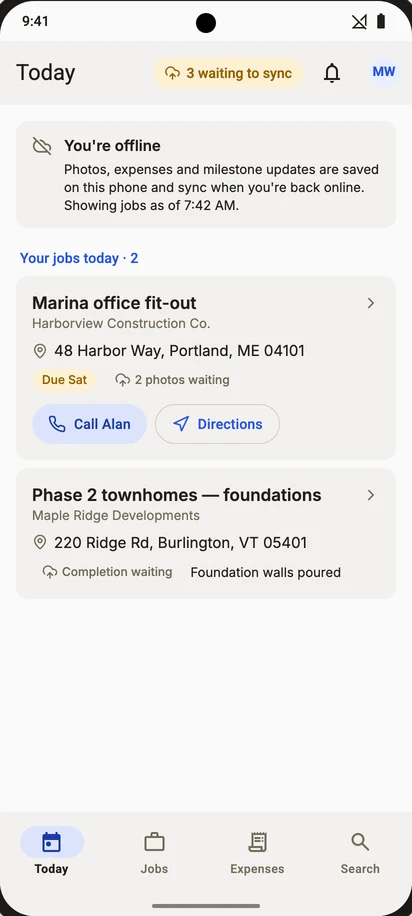
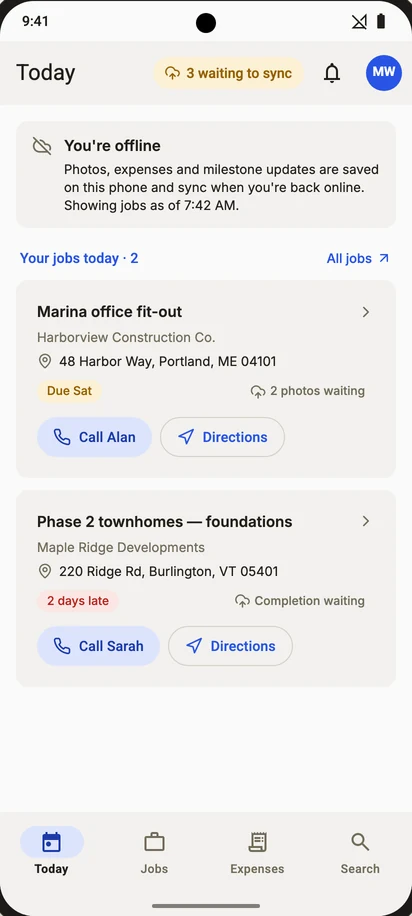
Phase 5: Today like the showcase-native home; US-MOB-23 Search story and designs

diff --git a/docs/design/screens.md b/docs/design/screens.md
@@ -2544,7 +2544,7 @@ Shows: "Sign in to Spine" · "Use the email your office invited you with." · "s
 
 Links to: `MobSyncQueue`, `MobJobDetail`, `MobPhotoCapture`, `MobExpenseNew`, `MobJobsList`, `MobExpensesList`, `MobProfile`
 
-Shows: "All synced" · "2" · "Today" · "Good morning, Marcus" · "Riverstone Builders · Thursday 8 October" · "60%" · "Milestones this month" · "3 of 5 done" · "This week" · "This month" · "Due this week" · "milestones · next Sat" · "Overdue" · "1" · "milestone · 2 days late" · "Photos" · "14" · "this week · all sent" · "My expenses" · "$234.00" · "1 waiting for approval" · "Add photos" · "Log expense" · "NEXT MEETING" · "Progress review — Phase 2 townhomes" · "Sun 11 Oct, 9:00 AM · 220 Ridge Rd" · "Jobs" · "Expenses"
+Shows: "All synced" · "2" · "Today" · "Good morning, Marcus" · "Riverstone Builders · Thursday 8 October" · "60%" · "Milestones this month" · "3 of 5 done" · "This week" · "This month" · "This year" · "Due this month" · "3" · "milestones · next Sat" · "Overdue" · "1" · "milestone · 2 days late" · "Photos" · "38" · "this month · all sent" · "My expenses" · "$234.00" · "1 waiting for approval" · "QUICK ACTIONS" · "Add photo" · "Log expense" · "Scan receipt" · "Directions" · "YOUR JOBS TODAY · 2" · "All jobs" · "Marina office fit-out" · "Harborview Construction Co." · "48 Harbor Way, Portland, ME 04101" · "Due Sat" · "Next: Mobilisation & site setup" · "Call Alan Reyes" · "Phase 2 townhomes — foundations" · "Maple Ridge Developments" · "220 Ridge Rd, Burlington, VT 05401" · "2 days late" · "Next: Foundation walls poured" · "Call Sarah Kim" · "Jobs" · "Expenses"
 
 ### MobHomeAndroid — Today — Spine Android
 **Priority:** P1 · **Phase:** 5 · **Stories:** US-MOB-03, US-MOB-19, US-MOB-20 · **Source:** Claude Design
@@ -2553,7 +2553,7 @@ Shows: "All synced" · "2" · "Today" · "Good morning, Marcus" · "Riverstone B
 
 Links to: `MobSyncQueueAndroid`, `MobJobDetailAndroid`, `MobPhotoCaptureAndroid`, `MobJobsListAndroid`, `MobExpensesListAndroid`, `MobProfileAndroid`
 
-Shows: "All synced" · "2" · "Today" · "Good morning, Marcus" · "Riverstone Builders · Thursday 8 October" · "60%" · "Milestones this month" · "3 of 5 done" · "check This week" · "This month" · "Due this week" · "milestones · next Sat" · "Overdue" · "1" · "milestone · 2 days late" · "Photos" · "14" · "this week · all sent" · "Add photos" · "Log expense" · "Next meeting" · "Progress review — Phase 2 townhomes" · "Sun 11 Oct, 9:00 AM · 220 Ridge Rd" · "Jobs" · "Expenses" · "Search"
+Shows: "All synced" · "2" · "Today" · "Good morning, Marcus" · "Riverstone Builders · Thursday 8 October" · "60%" · "Milestones this month" · "3 of 5 done" · "This week" · "check This month" · "This year" · "Due this month" · "3" · "milestones · next Sat" · "Overdue" · "1" · "milestone · 2 days late" · "Photos" · "38" · "this month · all sent" · "My expenses" · "$234.00" · "1 waiting for approval" · "Quick actions" · "Add photo" · "Log expense" · "Scan receipt" · "Directions" · "Your jobs today · 2" · "All jobs" · "Marina office fit-out" · "Harborview Construction Co." · "48 Harbor Way, Portland, ME 04101" · "Due Sat" · "Next: Mobilisation & site setup" · "Call Alan" · "Phase 2 townhomes — foundations" · "Maple Ridge Developments" · "220 Ridge Rd, Burlington, VT 05401" · "2 days late" · "Next: Foundation walls poured" · "Call Sarah" · "Jobs" · "Expenses" · "Search"
 
 ### MobHomeOffline — Today, offline
 **Priority:** P1 · **Phase:** 5 · **Stories:** US-MOB-07 · **Source:** Claude Design
@@ -2562,7 +2562,7 @@ Shows: "All synced" · "2" · "Today" · "Good morning, Marcus" · "Riverstone B
 
 Links to: `MobSyncQueue`, `MobJobDetail`, `MobPhotoCapture`, `MobExpenseNew`, `MobHome`, `MobJobsList`, `MobExpensesList`, `MobProfile`
 
-Shows: "Today" · "3 waiting to sync" · "You're offline" · "Photos, expenses and milestone updates are saved on this phone and sync when you're back online. Showing jobs as of 7:42 AM." · "YOUR JOBS TODAY · 2" · "Marina office fit-out" · "Harborview Construction Co." · "48 Harbor Way, Portland, ME 04101" · "Due Sat" · "2 photos waiting" · "Call Alan Reyes" · "Directions" · "Phase 2 townhomes — foundations" · "Maple Ridge Developments" · "220 Ridge Rd, Burlington, VT 05401" · "Completion waiting" · "Foundation walls poured" · "Jobs" · "Expenses"
+Shows: "3 waiting to sync" · "You're offline" · "Photos, expenses and milestone updates are saved on this phone and sync when you're back online. Showing jobs as of 7:42 AM." · "YOUR JOBS TODAY · 2" · "All jobs" · "Marina office fit-out" · "Harborview Construction Co." · "48 Harbor Way, Portland, ME 04101" · "Due Sat" · "2 photos waiting" · "Call Alan Reyes" · "Directions" · "Phase 2 townhomes — foundations" · "Maple Ridge Developments" · "220 Ridge Rd, Burlington, VT 05401" · "2 days late" · "Completion waiting" · "Call Sarah Kim" · "Today" · "Jobs" · "Expenses"
 
 ### MobHomeOfflineAndroid — Today, offline — Spine Android
 **Priority:** P1 · **Phase:** 5 · **Stories:** US-MOB-07 · **Source:** Claude Design
@@ -2571,7 +2571,7 @@ Shows: "Today" · "3 waiting to sync" · "You're offline" · "Photos, expenses a
 
 Links to: `MobSyncQueueAndroid`, `MobJobDetailAndroid`, `MobPhotoCaptureAndroid`, `MobHomeAndroid`, `MobJobsListAndroid`, `MobExpensesListAndroid`, `MobProfileAndroid`
 
-Shows: "Today" · "3 waiting to sync" · "You're offline" · "Photos, expenses and milestone updates are saved on this phone and sync when you're back online. Showing jobs as of 7:42 AM." · "Your jobs today · 2" · "Marina office fit-out" · "Harborview Construction Co." · "48 Harbor Way, Portland, ME 04101" · "Due Sat" · "2 photos waiting" · "Call Alan" · "Directions" · "Phase 2 townhomes — foundations" · "Maple Ridge Developments" · "220 Ridge Rd, Burlington, VT 05401" · "Completion waiting" · "Foundation walls poured" · "Jobs" · "Expenses" · "Search"
+Shows: "Today" · "3 waiting to sync" · "You're offline" · "Photos, expenses and milestone updates are saved on this phone and sync when you're back online. Showing jobs as of 7:42 AM." · "Your jobs today · 2" · "All jobs" · "Marina office fit-out" · "Harborview Construction Co." · "48 Harbor Way, Portland, ME 04101" · "Due Sat" · "2 photos waiting" · "Call Alan" · "Directions" · "Phase 2 townhomes — foundations" · "Maple Ridge Developments" · "220 Ridge Rd, Burlington, VT 05401" · "2 days late" · "Completion waiting" · "Call Sarah" · "Jobs" · "Expenses" · "Search"
 
 ### MobJobsListAndroid — Jobs — Spine Android
 **Priority:** P1 · **Phase:** 5 · **Stories:** US-MOB-04 · **Source:** Claude Design
@@ -2958,7 +2958,7 @@ Shows: "Fix expense" · "Didn't send: the receipt photo is over 10 MB." · "Cate
 
 Links to: `MobSyncQueue`, `MobJobDetail`, `MobPhotoCapture`, `MobExpenseNew`, `MobHome`, `MobJobsList`, `MobExpensesList`, `MobProfile`
 
-Shows: "All synced" · "2" · "Today" · "Good morning, Marcus" · "Riverstone Builders · Thursday 8 October" · "60%" · "Milestones this month" · "3 of 5 done" · "This week" · "This month" · "Due this week" · "milestones · next Sat" · "Overdue" · "1" · "milestone · 2 days late" · "Photos" · "14" · "this week · all sent" · "Add photos" · "Log expense" · "NEXT MEETING" · "Progress review — Phase 2 townhomes" · "Sun 11 Oct, 9:00 AM · 220 Ridge Rd" · "Jobs" · "Expenses"
+Shows: "All synced" · "2" · "Today" · "Good morning, Marcus" · "Riverstone Builders · Thursday 8 October" · "60%" · "Milestones this month" · "3 of 5 done" · "This week" · "This month" · "This year" · "Due this month" · "3" · "milestones · next Sat" · "Overdue" · "1" · "milestone · 2 days late" · "Photos" · "38" · "this month · all sent" · "My expenses" · "$234.00" · "1 waiting for approval" · "QUICK ACTIONS" · "Add photo" · "Log expense" · "Scan receipt" · "Directions" · "YOUR JOBS TODAY · 2" · "All jobs" · "Marina office fit-out" · "Harborview Construction Co." · "48 Harbor Way, Portland, ME 04101" · "Due Sat" · "Next: Mobilisation & site setup" · "Call Alan Reyes" · "Phase 2 townhomes — foundations" · "Maple Ridge Developments" · "220 Ridge Rd, Burlington, VT 05401" · "2 days late" · "Next: Foundation walls poured" · "Call Sarah Kim" · "Jobs" · "Expenses"
 
 ### MobJobDetailDark — Job detail (iOS), dark mode
 **Priority:** P1 · **Phase:** 5 · **Stories:** US-MOB-19 · **Source:** Claude Design
@@ -2976,7 +2976,7 @@ Shows: "Active" · "Marina office fit-out" · "JOB-001 · Harborview Constructio
 
 Links to: `MobSyncQueueAndroid`, `MobJobDetailAndroid`, `MobPhotoCaptureAndroid`, `MobHomeAndroid`, `MobJobsListAndroid`, `MobExpensesListAndroid`, `MobProfileAndroid`
 
-Shows: "All synced" · "2" · "Today" · "Good morning, Marcus" · "Riverstone Builders · Thursday 8 October" · "60%" · "Milestones this month" · "3 of 5 done" · "check This week" · "This month" · "Due this week" · "milestones · next Sat" · "Overdue" · "1" · "milestone · 2 days late" · "Photos" · "14" · "this week · all sent" · "Add photos" · "Log expense" · "Next meeting" · "Progress review — Phase 2 townhomes" · "Sun 11 Oct, 9:00 AM · 220 Ridge Rd" · "Jobs" · "Expenses" · "Search"
+Shows: "All synced" · "2" · "Today" · "Good morning, Marcus" · "Riverstone Builders · Thursday 8 October" · "60%" · "Milestones this month" · "3 of 5 done" · "This week" · "check This month" · "This year" · "Due this month" · "3" · "milestones · next Sat" · "Overdue" · "1" · "milestone · 2 days late" · "Photos" · "38" · "this month · all sent" · "My expenses" · "$234.00" · "1 waiting for approval" · "Quick actions" · "Add photo" · "Log expense" · "Scan receipt" · "Directions" · "Your jobs today · 2" · "All jobs" · "Marina office fit-out" · "Harborview Construction Co." · "48 Harbor Way, Portland, ME 04101" · "Due Sat" · "Next: Mobilisation & site setup" · "Call Alan" · "Phase 2 townhomes — foundations" · "Maple Ridge Developments" · "220 Ridge Rd, Burlington, VT 05401" · "2 days late" · "Next: Foundation walls poured" · "Call Sarah" · "Jobs" · "Expenses" · "Search"
 
 ### MobJobDetailAndroidDark — Job detail (Android), dark mode
 **Priority:** P1 · **Phase:** 5 · **Stories:** US-MOB-20 · **Source:** Claude Design
@@ -2994,7 +2994,7 @@ Shows: "Marina office fit-out" · "JOB-001 · Harborview Construction Co." · "A
 
 Links to: `MobJobDetail`, `MobNotifications`, `MobSyncQueue`, `MobProfile`, `MobSearch`
 
-Shows: "Today" · "All synced" · "2" · "YOUR JOBS TODAY · 2" · "Marina office fit-out" · "Harborview Construction Co." · "48 Harbor Way, Portland, ME 04101" · "Due Sat" · "Next: Mobilisation & site setup" · "Call Alan Reyes" · "Directions" · "Phase 2 townhomes — foundations" · "Maple Ridge Developments" · "220 Ridge Rd, Burlington, VT 05401" · "2 days late" · "Next: Foundation walls poured" · "Call Sarah Kim" · "Jobs" · "Expenses"
+Shows: "All synced" · "Today" · "2" · "QUICK ACTIONS" · "Add photo" · "Log expense" · "Scan receipt" · "Directions" · "YOUR JOBS TODAY · 2" · "All jobs" · "Marina office fit-out" · "Harborview Construction Co." · "48 Harbor Way, Portland, ME 04101" · "Due Sat" · "Next: Mobilisation & site setup" · "Call Alan Reyes" · "Phase 2 townhomes — foundations" · "Maple Ridge Developments" · "220 Ridge Rd, Burlington, VT 05401" · "2 days late" · "Next: Foundation walls poured" · "Call Sarah Kim" · "NEXT MEETING" · "Progress review — Phase 2 townhomes" · "Sun 11 Oct, 9:00 AM · 220 Ridge Rd" · "Jobs" · "Expenses"
 
 ### MobHomeJobsAndroid — Today, scrolled to the jobs — Spine Android
 **Priority:** P1 · **Phase:** 5 · **Stories:** US-MOB-03 · **Source:** Claude Design
@@ -3003,7 +3003,7 @@ Shows: "Today" · "All synced" · "2" · "YOUR JOBS TODAY · 2" · "Marina offic
 
 Links to: `MobJobDetailAndroid`, `MobNotificationsAndroid`, `MobSyncQueueAndroid`, `MobProfileAndroid`, `MobSearchAndroid`
 
-Shows: "Today" · "All synced" · "2" · "Your jobs today · 2" · "Marina office fit-out" · "Harborview Construction Co." · "48 Harbor Way, Portland, ME 04101" · "Due Sat" · "Next: Mobilisation & site setup" · "Call Alan" · "Directions" · "Phase 2 townhomes — foundations" · "Maple Ridge Developments" · "220 Ridge Rd, Burlington, VT 05401" · "2 days late" · "Next: Foundation walls poured" · "Call Sarah" · "Jobs" · "Expenses" · "Search"
+Shows: "Today" · "All synced" · "2" · "Quick actions" · "Add photo" · "Log expense" · "Scan receipt" · "Directions" · "Your jobs today · 2" · "All jobs" · "Marina office fit-out" · "Harborview Construction Co." · "48 Harbor Way, Portland, ME 04101" · "Due Sat" · "Next: Mobilisation & site setup" · "Call Alan" · "Phase 2 townhomes — foundations" · "Maple Ridge Developments" · "220 Ridge Rd, Burlington, VT 05401" · "2 days late" · "Next: Foundation walls poured" · "Call Sarah" · "Next meeting" · "Progress review — Phase 2 townhomes" · "Sun 11 Oct, 9:00 AM · 220 Ridge Rd" · "Jobs" · "Expenses" · "Search"
 
 ### MobExpenseLabour — New expense, headcount × day rate
 **Priority:** P1 · **Phase:** 5 · **Stories:** US-MOB-13, US-PUR-23 · **Source:** Claude Design
@@ -3024,7 +3024,7 @@ Links to: `MobExpensesListAndroid`
 Shows: "New expense" · "Submit" · "Amount" · "check Headcount × day rate" · "Phase 2 townhomes — foundations" · "Job" · "Trades" · "Mason" · "Trade" · "4" · "Workers" · "220.00" · "Day rate" · "$" · "4 × $220.00" · "$880.00" · "Steel fixer" · "2 × $260.00" · "$520.00" · "Add trade" · "Total for the day" · "$1,400.00"
 
 ### MobSearch — Search
-**Priority:** P1 · **Phase:** 5 · **Stories:** US-MOB-04 · **Source:** Claude Design
+**Priority:** P1 · **Phase:** 5 · **Stories:** US-MOB-23 · **Source:** Claude Design
 
 ![MobSearch](screens/MobSearch.webp)
 
@@ -3033,7 +3033,7 @@ Links to: `MobSearchResults`
 Shows: "Search" · "Recent searches" · "Edit" · "ridge rd" · "Find a job by name, customer or address, or one of your expenses by category or description." · "Search jobs and expenses"
 
 ### MobSearchResults — Search results
-**Priority:** P1 · **Phase:** 5 · **Stories:** US-MOB-04 · **Source:** Claude Design
+**Priority:** P1 · **Phase:** 5 · **Stories:** US-MOB-23 · **Source:** Claude Design
 
 ![MobSearchResults](screens/MobSearchResults.webp)
 
@@ -3042,7 +3042,7 @@ Links to: `MobJobDetail`, `MobExpensesList`
 Shows: "Search" · "JOBS · 1" · "office fit-out" · "Marina" · "Harborview Construction Co. · 48 Harbor Way, Portland" · "YOUR EXPENSES · 2" · "Fuel & Vehicle" · "Today · office fit-out" · "$64.20" · "Waiting" · "Site Meals" · "Sun 27 Sep · office fit-out" · "$42.00" · "Approved"
 
 ### MobSearchAndroid — Search — Spine Android
-**Priority:** P1 · **Phase:** 5 · **Stories:** US-MOB-04 · **Source:** Claude Design
+**Priority:** P1 · **Phase:** 5 · **Stories:** US-MOB-23 · **Source:** Claude Design
 
 ![MobSearchAndroid](screens/MobSearchAndroid.webp)
 
@@ -3051,13 +3051,31 @@ Links to: `MobSearchResultsAndroid`
 Shows: "Search jobs and expenses" · "Recent searches" · "Clear" · "ridge rd" · "Find a job by name, customer or address, or one of your expenses by category or description." · "Today" · "Jobs" · "Expenses" · "Search"
 
 ### MobSearchResultsAndroid — Search results — Spine Android
-**Priority:** P1 · **Phase:** 5 · **Stories:** US-MOB-04 · **Source:** Claude Design
+**Priority:** P1 · **Phase:** 5 · **Stories:** US-MOB-23 · **Source:** Claude Design
 
 ![MobSearchResultsAndroid](screens/MobSearchResultsAndroid.webp)
 
 Links to: `MobJobDetailAndroid`, `MobExpensesListAndroid`
 
 Shows: "Jobs · 1" · "office fit-out" · "Marina" · "Harborview Construction Co. · 48 Harbor Way, Portland" · "Your expenses · 2" · "Fuel & Vehicle" · "Today · waiting to sync" · "$64.20" · "Site Meals" · "Sun 27 Sep ·" · "Approved" · "$42.00"
+
+### MobSearchEmpty — Search, no results
+**Priority:** P2 · **Phase:** 5 · **Stories:** US-MOB-23 · **Source:** Claude Design
+
+![MobSearchEmpty](screens/MobSearchEmpty.webp)
+
+Links to: `MobSearch`
+
+Shows: "Search" · "No results for “quarry”" · "Search covers the jobs you're on and your own expenses. Try a customer name, a street or an expense category."
+
+### MobSearchEmptyAndroid — Search, no results — Spine Android
+**Priority:** P2 · **Phase:** 5 · **Stories:** US-MOB-23 · **Source:** Claude Design
+
+![MobSearchEmptyAndroid](screens/MobSearchEmptyAndroid.webp)
+
+Links to: `MobSearchAndroid`
+
+Shows: "No results for “quarry”" · "Search covers the jobs you're on and your own expenses. Try a customer name, a street or an expense category."
 
 ### MobNotifications — Notifications
 **Priority:** P1 · **Phase:** 5 · **Stories:** US-MOB-22 · **Source:** Claude Design

diff --git a/docs/features/17-mobile.md b/docs/features/17-mobile.md
@@ -4,7 +4,7 @@ A native iOS and Android app for field crew: sign in once, see today's assigned 
 
 **Throughout the app:** money is shown in the business currency and formatted for the business locale ("$64.20", "₹1,250.00"), never with a trailing currency code. Native tabs Today, Jobs and Expenses plus Search (iOS `role="search"`, a fourth tab on Android); the person's avatar at the top right of every tab opens Profile, and the bell on Today opens Notifications ([D-197](../prd/12-decisions.md)). When the **Jobs & field** module is off, the Jobs tab, job pickers, job cards and job KPIs are hidden and the app is for expenses ([D-198](../prd/12-decisions.md)); when **Leads & meetings** is off, the next meeting is hidden.
 
-**Screens:** `MobSignIn` (P1), `MobSignInAndroid` (P1), `MobHome` (P1), `MobHomeAndroid` (P1), `MobHomeOffline` (P1), `MobHomeOfflineAndroid` (P1), `MobJobsList` (P1), `MobJobsListAndroid` (P1), `MobJobsEmpty` (P2), `MobJobsEmptyAndroid` (P2), `MobJobDetail` (P1), `MobJobDetailAndroid` (P1), `MobMilestoneComplete` (P1), `MobMilestoneCompleteAndroid` (P1), `MobCameraPermission` (P2), `MobCameraPermissionAndroid` (P2), `MobPhotoCapture` (P1), `MobPhotoCaptureAndroid` (P1), `MobPhotoReview` (P1), `MobPhotoReviewAndroid` (P1), `MobExpensesList` (P1), `MobExpensesListAndroid` (P1), `MobExpenseNew` (P1), `MobExpenseNewAndroid` (P1), `MobReceiptCapture` (P1), `MobReceiptCaptureAndroid` (P1), `MobQuotePresent` (P1), `MobQuotePresentAndroid` (P1), `MobQuoteAccept` (P1), `MobQuoteAcceptAndroid` (P1), `MobQuoteAccepted` (P1), `MobQuoteAcceptedAndroid` (P1), `MobQuoteNeedsConnection` (P2), `MobQuoteNeedsConnectionAndroid` (P2), `MobSyncQueue` (P1), `MobSyncQueueAndroid` (P1), `MobProfile` (P2), `MobProfileAndroid` (P2), `MobError` (P2), `MobErrorAndroid` (P2), `MobSignOutConfirm` (P1), `MobSignOutConfirmAndroid` (P1), `MobJobPhotos` (P2), `MobJobPhotosAndroid` (P2), `MobQuoteDecline` (P2), `MobQuoteDeclineAndroid` (P2), `MobUpdateRequired` (P2), `MobUpdateRequiredAndroid` (P2), `MobSyncFix` (P1), `MobSyncFixAndroid` (P1), `MobHomeDark` (P1), `MobJobDetailDark` (P1), `MobHomeAndroidDark` (P1), `MobJobDetailAndroidDark` (P1), `MobHomeJobs` (P1), `MobHomeJobsAndroid` (P1), `MobSearch` (P1), `MobSearchAndroid` (P1), `MobSearchResults` (P1), `MobSearchResultsAndroid` (P1), `MobExpenseLabour` (P1), `MobExpenseLabourAndroid` (P1), `MobNotifications` (P1), `MobNotificationsAndroid` (P1), `MobNotificationsEmpty` (P2), `MobNotificationsEmptyAndroid` (P2)
+**Screens:** `MobSignIn` (P1), `MobSignInAndroid` (P1), `MobHome` (P1), `MobHomeAndroid` (P1), `MobHomeOffline` (P1), `MobHomeOfflineAndroid` (P1), `MobJobsList` (P1), `MobJobsListAndroid` (P1), `MobJobsEmpty` (P2), `MobJobsEmptyAndroid` (P2), `MobJobDetail` (P1), `MobJobDetailAndroid` (P1), `MobMilestoneComplete` (P1), `MobMilestoneCompleteAndroid` (P1), `MobCameraPermission` (P2), `MobCameraPermissionAndroid` (P2), `MobPhotoCapture` (P1), `MobPhotoCaptureAndroid` (P1), `MobPhotoReview` (P1), `MobPhotoReviewAndroid` (P1), `MobExpensesList` (P1), `MobExpensesListAndroid` (P1), `MobExpenseNew` (P1), `MobExpenseNewAndroid` (P1), `MobReceiptCapture` (P1), `MobReceiptCaptureAndroid` (P1), `MobQuotePresent` (P1), `MobQuotePresentAndroid` (P1), `MobQuoteAccept` (P1), `MobQuoteAcceptAndroid` (P1), `MobQuoteAccepted` (P1), `MobQuoteAcceptedAndroid` (P1), `MobQuoteNeedsConnection` (P2), `MobQuoteNeedsConnectionAndroid` (P2), `MobSyncQueue` (P1), `MobSyncQueueAndroid` (P1), `MobProfile` (P2), `MobProfileAndroid` (P2), `MobError` (P2), `MobErrorAndroid` (P2), `MobSignOutConfirm` (P1), `MobSignOutConfirmAndroid` (P1), `MobJobPhotos` (P2), `MobJobPhotosAndroid` (P2), `MobQuoteDecline` (P2), `MobQuoteDeclineAndroid` (P2), `MobUpdateRequired` (P2), `MobUpdateRequiredAndroid` (P2), `MobSyncFix` (P1), `MobSyncFixAndroid` (P1), `MobHomeDark` (P1), `MobJobDetailDark` (P1), `MobHomeAndroidDark` (P1), `MobJobDetailAndroidDark` (P1), `MobHomeJobs` (P1), `MobHomeJobsAndroid` (P1), `MobSearch` (P1), `MobSearchAndroid` (P1), `MobSearchResults` (P1), `MobSearchResultsAndroid` (P1), `MobExpenseLabour` (P1), `MobExpenseLabourAndroid` (P1), `MobNotifications` (P1), `MobNotificationsAndroid` (P1), `MobNotificationsEmpty` (P2), `MobNotificationsEmptyAndroid` (P2), `MobSearchEmpty` (P2), `MobSearchEmptyAndroid` (P2)
 **Depends on:** 02 Sign-in (accounts), 07 Jobs (crew, milestones, photos), 10 Purchases (expenses), 06 Quotes (in-person acceptance), `packages/ui-native`, [15-mobile-release](../prd/15-mobile-release.md).
 
 ## Features
@@ -18,6 +18,7 @@ A native iOS and Android app for field crew: sign in once, see today's assigned 
 | F-MOB-05 | Expenses with receipts | P1 | 5 | `MobExpensesList`, `MobExpensesListAndroid`, `MobExpenseNew`, `MobExpenseNewAndroid`, `MobReceiptCapture`, `MobReceiptCaptureAndroid` |
 | F-MOB-06 | On-site quote acceptance | P1 | 5 | `MobQuotePresent`, `MobQuotePresentAndroid`, `MobQuoteAccept`, `MobQuoteAcceptAndroid`, `MobQuoteAccepted`, `MobQuoteAcceptedAndroid`, `MobQuoteNeedsConnection`, `MobQuoteNeedsConnectionAndroid` |
 | F-MOB-07 | Native app foundation | P1 | 5 | `MobHome`, `MobHomeAndroid` |
+| F-MOB-09 | Search | P1 | 5 | `MobSearch`, `MobSearchAndroid`, `MobSearchResults`, `MobSearchResultsAndroid`, `MobSearchEmpty`, `MobSearchEmptyAndroid` |
 | F-MOB-08 | Notifications on the phone | P1 | 5 | `MobNotifications`, `MobNotificationsAndroid`, `MobNotificationsEmpty`, `MobNotificationsEmptyAndroid` |
 
 ## User stories
@@ -78,13 +79,12 @@ Legacy: S-11.2
 - UI: expo-router native tabs Today · Jobs · Expenses, Profile from the avatar ([D-197](../prd/12-decisions.md)); `ActionTile`, `Card`, `StatusChip` from `@spine/ui-native`.
 
 ### US-MOB-04 · Browse my assigned jobs
-**Feature:** F-MOB-02 · **Priority:** P1 · **Phase:** 5 · **Screens:** `MobJobsList`, `MobJobsListAndroid`, `MobJobsEmpty`, `MobJobsEmptyAndroid`, `MobSearch`, `MobSearchAndroid`, `MobSearchResults`, `MobSearchResultsAndroid`
+**Feature:** F-MOB-02 · **Priority:** P1 · **Phase:** 5 · **Screens:** `MobJobsList`, `MobJobsListAndroid`, `MobJobsEmpty`, `MobJobsEmptyAndroid`
 **As** a field user, **I want** a list of every job I'm on, **so that** I can find one that isn't today's.
 
 **Acceptance criteria**
 - **Given** the Jobs tab, **when** it opens, **then** I see "ASSIGNED TO YOU · <n>" with each job's name, customer, town and milestone status.
-- **Given** the Search tab, **when** it opens, **then** I see "Search jobs and expenses" and my recent searches (kept on this phone), with "Edit" on iOS or "Clear" on Android.
-- **Given** I type in search, **when** I pause, **then** results are grouped into "JOBS · <n>" (job name, customer or site address) and "YOUR EXPENSES · <n>" (category, description or job) with the match highlighted. Only my assigned jobs and my own expenses are searched, and it works offline against the cache.
+- **Given** I want a job that isn't on the list's first screen, **when** I look for it, **then** I use the Search tab (US-MOB-23); the Jobs list has no search field of its own.
 - **Given** I pull down, **when** I release, **then** the list refreshes.
 - **Given** I'm on no jobs, **when** I open the tab, **then** I see "No jobs assigned to you yet", "When your office adds you to a job's crew, it shows up here with its address and contact." and "Check again".
 
@@ -362,3 +362,23 @@ Finding: C24 · Decision: D-034
 **Implementation notes**
 - API: the web bell's notification routes, read with the bearer session. New in-app types: `expense_rejected`, `crew_assigned`, `crew_removed`.
 - No push to the lock screen in 1.0 ([D-200](../prd/12-decisions.md)): the list refreshes when the app opens or comes back to the foreground, and on pull to refresh.
+
+### US-MOB-23 · Search my jobs and my expenses
+**Feature:** F-MOB-09 · **Priority:** P1 · **Phase:** 5 · **Screens:** `MobSearch`, `MobSearchAndroid`, `MobSearchResults`, `MobSearchResultsAndroid`, `MobSearchEmpty`, `MobSearchEmptyAndroid`
+**As** a field user, **I want** one place to find a job or an expense by typing, **so that** I don't scroll through lists on site.
+
+Decision: [D-197](../prd/12-decisions.md)
+
+**Acceptance criteria**
+- **Given** the app, **when** it renders the tabs, **then** Search sits beside Today, Jobs and Expenses: on iOS as the tab bar's search button (`role="search"`), on Android as a fourth tab labelled "Search".
+- **Given** the Search tab, **when** it opens with nothing typed, **then** I see "Search jobs and expenses", my recent searches (up to 10, newest first, kept only on this phone) and "Find a job by name, customer or address, or one of your expenses by category or description."; iOS offers "Edit" and Android "Clear" to remove them.
+- **Given** I type, **when** I pause, **then** results appear grouped as "JOBS · <n>" (my assigned jobs matching name, customer, job number or site address) and "YOUR EXPENSES · <n>" (my own expenses matching category, description or job), with the matching text highlighted; a group with no matches is left out.
+- **Given** a result, **when** I tap it, **then** the job opens in the Jobs tab or the expense opens in the Expenses tab, and the search is added to my recent searches.
+- **Given** nothing matches, **when** the results would be empty, **then** I see "No results for “<query>”" and "Search covers the jobs you're on and your own expenses. Try a customer name, a street or an expense category."
+- **Given** I'm offline, **when** I search, **then** it searches the phone's cache, including expenses still waiting to sync (shown with "Waiting").
+- **Given** a Field user, **when** they search, **then** other people's expenses, unassigned jobs, invoices and money figures other than their own expenses never appear (D-048).
+- **Given** Jobs & field is off, **when** I search, **then** only my expenses are searched and the jobs group is hidden (D-198).
+
+**Implementation notes**
+- Searches the local SQLite cache (jobs and expenses already synced plus the outbox) — no new API; matching is case- and accent-insensitive and runs as you type with a short debounce.
+- Recent searches live in the same per-device storage as the appearance setting, never on the server.

diff --git a/docs/prd/12-decisions.md b/docs/prd/12-decisions.md
@@ -200,7 +200,7 @@ Every non-obvious choice, numbered and permanent. **Accepted** = decided by the 
 | D-194 | **How Set up Spine decides "Done"** (US-ONB-15, US-ONB-16; extends D-155). Every card is worked out from data each time the page opens: Business — a name and address; Tax — a tax country, plus GSTIN and state in India; Chart of accounts — an account added, or one the chart or a template made then renamed; Opening balances — locked; Bank and cash — a money account beyond the two seeded ones, or the seeded bank account renamed or given its bank details; Payment instructions — instructions or a UPI ID; Documents and emails — any document layout or email text saved; Numbering — a series set up in Settings or already in use; Payment reminders — on; Modules — saved (by the template or in Settings); Invite your team — another active member who isn't an Owner, or a pending invitation; Email sending — the server has SMTP set up; Field app — an active Field user, and the card only shows while Jobs & field is on. **Demo data** counts as it stands, and the page says "Demo data is loaded — these reflect the demo business. Delete it in Settings › Data to set up your own." **Backups** can't be checked until Phase 11 (US-OPS-03): the card explains whoever runs the server sets them up, links to the self-hosting guide and is left out of "<n> of <m> done". Email sending and Backups link to the README's self-hosting section until the docs site ships (Q-15). "Mark as not needed" moves a card to a "Not needed" list with "Show again". "How it works" waits behind `FEATURE_FLAGS.bundledHelp` for the bundled guide (US-SITE-11) | Accepted | Owner, 2026-10-08 |
 | D-195 | **The AI assistant is a phase of its own.** US-AI-01 to US-AI-14 move from Phase 9 to a new **Phase 10 · AI assistant**, and **Packaging & 1.0 becomes Phase 11**. AI still ships in 1.0 (D-162 stands); doing it before Packaging means the 1.0 security review, accessibility audit and user guide cover it. Why: it is the only feature that sends data off the server (D-164, D-165), it stores encrypted provider keys, and it reaches bills, expenses, emails, quotes, reconciliation and the phone app — so it gets its own branch, review and PR, and Phase 9 (tax, documents and setup) merges on its own. References to "Phase 10" that meant Packaging now read Phase 11; past decisions and changelog entries are left as written | Accepted | Owner, 2026-10-08 |
 | D-196 | **The field app is rebuilt from scratch.** The current `apps/mobile` (React Navigation, five screens) is deleted and Phase 5 builds a new expo-router app with `scripts/create-native-app.mjs`, on `@spine/ui-native` and `@expo/ui`, following `apps/showcase-native` (native tabs, native-stack headers, form sheets, `useNativeColors`). Every Phase 5 story is implemented fresh against today's API; nothing from the old app is ported. The Phase 5 artboards were redrawn from scratch in Claude Design to match ("Spine Field — mobile app (Phase 5)"), exported to `docs/design/screens/Mob*.webp`. The explicit decision `docs/design/native-notes.md` requires before replacing an app's navigation | Accepted | Owner, 2026-10-08 |
-| D-197 | **Field app navigation** (replaces the Profile tab in D-047 and the Today action in D-051). Native tabs Today, Jobs and Expenses plus **Search**, as in showcase-native: on iOS Search uses the tab bar's `role="search"` (a separate glass button; the bar turns into a search field while searching), on Android it's an ordinary fourth tab. Search covers the person's assigned jobs and own expenses, so the Jobs list has no search field. Profile is a form sheet (iOS) or page (Android) opened from the avatar at the top right of every tab. Today's header has the sync pill, a **bell** opening Notifications (US-MOB-22) and the avatar. Today follows the showcase-native home: a welcome card with a gauge (milestones completed this month), a This week / This month switch and KPI cards (milestones due, overdue, photos, own expenses — no other money, D-048), then "Add photos" and "Log expense" as action tiles, the next meeting and the jobs. Android's floating action button is "Add photos" on a job and its photos and "Log expense" on Expenses; on iOS the camera is a toolbar button on a job and "+" adds an expense | Accepted | Owner, 2026-10-08 |
+| D-197 | **Field app navigation** (replaces the Profile tab in D-047 and the Today action in D-051). Native tabs Today, Jobs and Expenses plus **Search**, as in showcase-native: on iOS Search uses the tab bar's `role="search"` (a separate glass button; the bar turns into a search field while searching), on Android it's an ordinary fourth tab. Search covers the person's assigned jobs and own expenses (US-MOB-23), so the Jobs list has no search field. Profile is a form sheet (iOS) or page (Android) opened from the avatar at the top right of every tab. Today's header has the sync pill, a **bell** opening Notifications (US-MOB-22) and the avatar. Today follows the showcase-native home: a welcome card with a gauge (milestones completed this month), a This week / This month switch and KPI cards (milestones due, overdue, photos, own expenses — no other money, D-048), then "Add photos" and "Log expense" as action tiles, the next meeting and the jobs. Android's floating action button is "Add photos" on a job and its photos and "Log expense" on Expenses; on iOS the camera is a toolbar button on a job and "+" adds an expense | Accepted | Owner, 2026-10-08 |
 | D-198 | **The field app with Jobs & field off.** Owner and Staff can still sign in: the Jobs tab, job pickers, job cards and job KPIs are hidden; Today keeps the welcome card (without the milestone gauge), the expense KPI, "Log expense" and the next meeting; Expenses, Search and Notifications work as normal. Field rights are job-based, so a Field user can't use the app with the module off and sign-in says "The field app needs Jobs & field turned on. Ask your office." | Accepted | Owner, 2026-10-08 |
 | D-199 | **Labour expenses from the phone.** New expense on the phone offers the web's "Amount" / "Headcount × day rate" switch (US-PUR-23, D-126): trade, workers and day rate per row, job required, the Direct Labour category preselected, no names or hours. It goes through the outbox like any expense with `entryMode: "labour"` and `labourLines`, and the server recomputes the total | Accepted | Owner, 2026-10-08 |
 | D-200 | **No push notifications to phones in 1.0.** The field app shows notifications only in its in-app list (US-MOB-22), refreshed when the app opens or returns to the foreground and on pull to refresh. A store-published app could only push through Apple and Google with the publisher's credentials, which means a relay outside the self-hosted server; nothing leaves the server instead. Revisit after 1.0 (a relay that only ever carries a generic text, or local meeting reminders) | Accepted | Owner, 2026-10-08 |

diff --git a/CHANGELOG.md b/CHANGELOG.md
@@ -80,6 +80,16 @@ Verified end-to-end against a live local instance: seeded demo data, confirmed P
 
 ## Completed
 
+### 2026-10-08 — US-MOB-23 and Today redrawn like the showcase-native home (planning)
+
+- **Today:** follows `apps/showcase-native`'s home:
+  - Large title, with the sync pill on the left and the bell and a filled avatar on the right.
+  - A welcome card with the GaugeIndicator-style gauge (rounded arc, ticks and end dot) showing milestones done this month.
+  - A This week / This month / This year switch and KPI cards.
+  - "QUICK ACTIONS" with four tiles (Add photo, Log expense, Scan receipt, Directions).
+  - "YOUR JOBS TODAY" in bordered cards with "All jobs ↗".
+- **Search:** new story **US-MOB-23** (search my jobs and my expenses). It covers the tab on both platforms, recent searches, grouped and highlighted results, offline search of the cache, and nothing outside the person's own records. New `MobSearchEmpty` artboards. The search criteria moved out of US-MOB-04. Phase 5 now has 27 stories.
+
 ### 2026-10-08 — D-196 to D-200: Phase 5 redesigned and its stories refreshed (planning)
 
 - **Rebuild from scratch (D-196):** the old `apps/mobile` (React Navigation, five screens) will be replaced by a new expo-router app on `@spine/ui-native` and `@expo/ui`, built the way `apps/showcase-native` is.

diff --git a/docs/prd/10-phases.md b/docs/prd/10-phases.md
@@ -9,7 +9,7 @@ Phases 0–4 and 6–7 are built; Phase 5 is in progress; Phases 8–11 follow (
 | 2 | Money in | 22 | Quote → invoice → partial payment with a balanced trial balance |
 | 3 | Jobs & construction billing | 15 | A full contract lifecycle reconciles |
 | 4 | Money out & books | 62 | A simulated quarter produces accountant-acceptable reports |
-| 5 | Mobile field companion | 26 | The app works end-to-end in airplane mode and syncs without duplicates |
+| 5 | Mobile field companion | 27 | The app works end-to-end in airplane mode and syncs without duplicates |
 | 6 | Fix and harden | 47 | Everything already built is correct, secure and consistent |
 | 7 | Product upgrades | 35 | An owner runs the business from the dashboard and gets paid without chasing |
 | 8 | Books completeness | 55 | An accountant migrates a business in, reconciles the bank and closes a year in Spine |
@@ -394,6 +394,7 @@ Total: 427 stories.
 - US-MOB-20 · Give Android users a designed Material 3 app (P1)
 - US-MOB-21 · Document every native component in a showcase app (P2)
 - US-MOB-22 · See my notifications on the phone (P1)
+- US-MOB-23 · Search my jobs and my expenses (P1)
 
 ## Phase 6 · Fix and harden
 

diff --git a/docs/progress.md b/docs/progress.md
@@ -233,6 +233,7 @@ Tick a story only when its acceptance criteria pass with tests named after the s
 - [ ] US-MOB-20 · Give Android users a designed Material 3 app
 - [ ] US-MOB-21 · Document every native component in a showcase app
 - [ ] US-MOB-22 · See my notifications on the phone
+- [ ] US-MOB-23 · Search my jobs and my expenses
 
 ## Phase 6 · Fix and harden
 
